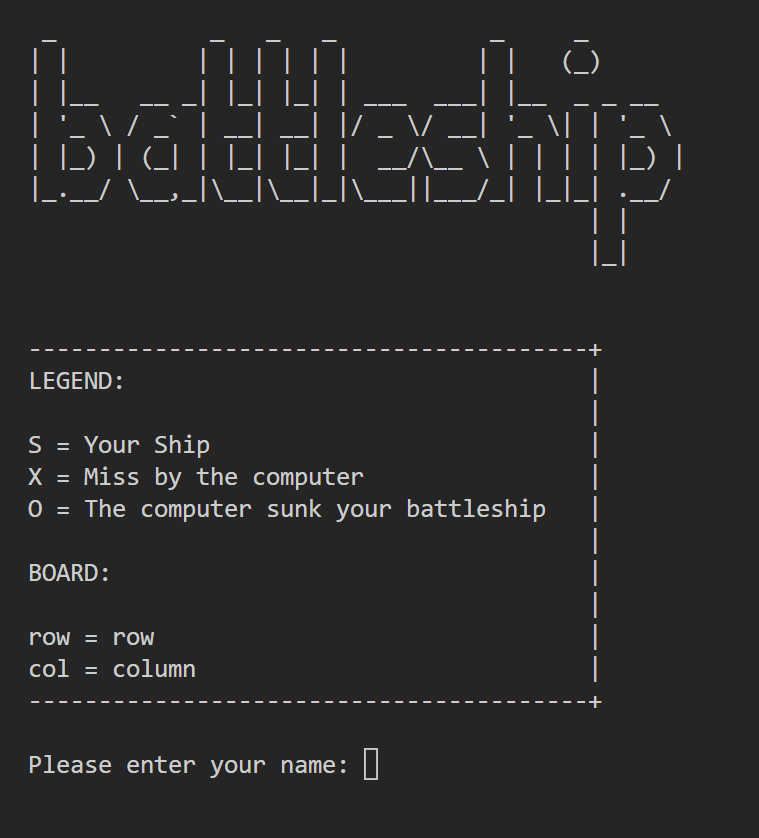
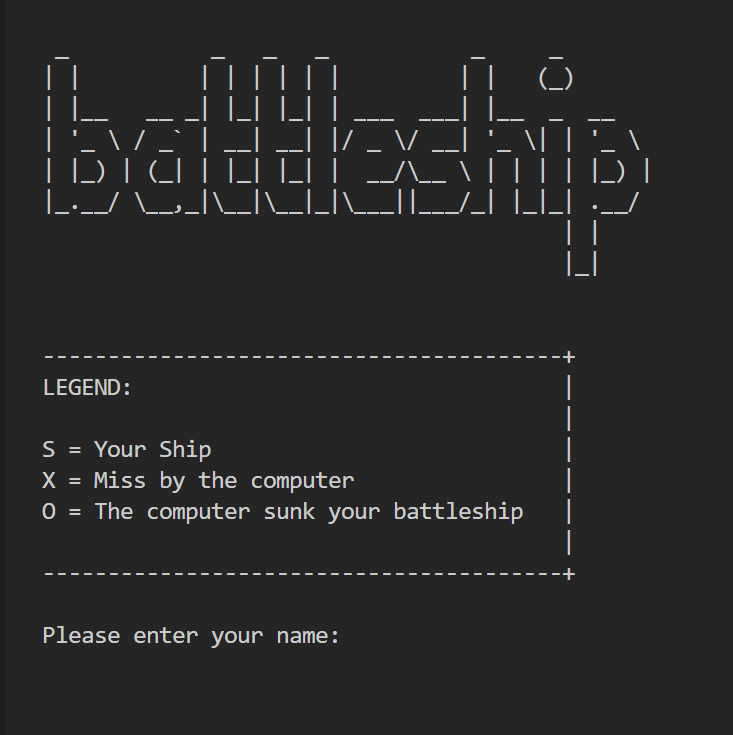
Import time and to the play_game function to improve user experience

diff --git a/run.py b/run.py
@@ -1,7 +1,8 @@
 """
-Importing random & colored from termcolor
+Importing random, time & colored from termcolor
 """
 import random
+import time
 from termcolor import colored
 
 # Game setup
@@ -26,10 +27,6 @@ S = Your Ship                           |
 X = Miss by the computer                |
 O = The computer sunk your battleship   |
                                         |
-BOARD:                                  |
-                                        |
-row = row                               |
-col = column                            |
 ----------------------------------------+
 """
 
@@ -51,6 +48,10 @@ def display_header():
     print(LEGEND)
 
 
+import random
+
+GAME_AREA = 5
+
 def game_setup(user_board, pc_board, user_name):
     """
     function asks user to place 3 ships on the board.
@@ -58,11 +59,18 @@ def game_setup(user_board, pc_board, user_name):
     The function checks if the user has entered a valid location for
     their ships. If the user has entered an invalid location they are
     asked to re-enter the location.
+
+    Returns:
+    A list of tuples containing the row and column coordinates of
+    each ship on the computer's board.
     """
+    print("\n")
     print(colored(f'{user_name}, Welcome to Battleship!', 'green'))
     print(colored('Begin by placing 3 battleships on the board.', 'green'))
     print(colored('The board is 5 x 5.', 'green'))
     print(colored('Please enter 0 - 4 for your selections.', 'green'))
+    print("\n")
+    
     for i in range(3):
         display_board(user_board)
         permitted_location = False
@@ -82,6 +90,13 @@ def game_setup(user_board, pc_board, user_name):
             except ValueError:
                 print("Input is not valid. Please enter a whole number.")
 
+    time.sleep(1)
+
+    # Clear the screen, display the header, and show the current game board
+    clear_screen()
+    display_header()
+    display_board(user_board)
+
     # PC's ships are created and placed in random locations on the board.
     print("The computer is randomly selecting locations.\n")
 
@@ -90,21 +105,24 @@ def game_setup(user_board, pc_board, user_name):
                            for c in range(GAME_AREA)
                            if user_board[r][c] == 'S']
 
+    # Place computer's ships randomly
+    pc_ship_locations = []
     for i in range(3):
         permitted_location = False
         while not permitted_location:
             row = random.randint(0, GAME_AREA-1)
             col = random.randint(0, GAME_AREA-1)
-            if pc_board[row][col] == ' ' and (row, col)\
-                    not in user_ship_locations:
+            if pc_board[row][col] == ' ' and (row, col) not in user_ship_locations:
                 pc_board[row][col] = 'S'
+                pc_ship_locations.append((row, col))
                 permitted_location = True
 
-    # Marking the computer's ships on the board
-    for row in range(GAME_AREA):
-        for col in range(GAME_AREA):
-            if pc_board[row][col] == 'S':
-                user_board[row][col] = '?'
+    # Mark computer's ships on the user's board
+    for row, col in pc_ship_locations:
+        user_board[row][col] = '?'
+
+    return pc_ship_locations
+
 
 
 def display_board(area):
@@ -135,7 +153,7 @@ def eliminate_target(area, row, col):
         return False
 
 
-def game_loop(user_board, pc_board, user_name):
+def game_loop(user_board, pc_board, user_name, pc_ship_locations):
     """
     This function is the game loop.
     It asks the user to pick a location on the board
@@ -151,6 +169,9 @@ def game_loop(user_board, pc_board, user_name):
     has a ship, the function will randomly select a new location for the ship.
     """
     while True:
+        # Clear the screen before displaying the updated boards
+        clear_screen()
+        display_header()
         # Player's turn
         print(colored(f"{user_name}, take your shot.\n", "blue"))
         display_board(user_board)
@@ -163,8 +184,8 @@ def game_loop(user_board, pc_board, user_name):
                 if pick_row < GAME_AREA and pick_col < GAME_AREA:
                     if user_board[pick_row][pick_col] == 'X' or\
                          user_board[pick_row][pick_col] == 'O':
-                        print("You've picked that location already."
-                              "Try another!")
+                        print("There are no ships in squares marked X,"
+                              "try again!")
                     else:
                         guess_is_good = True
                         eliminate_target(pc_board, pick_row, pick_col)
@@ -176,23 +197,35 @@ def game_loop(user_board, pc_board, user_name):
 
         # If the user wins
         if all('S' not in row for row in pc_board):
+            clear_screen()
+            display_board(user_board)
             print(colored(f'{user_name}, YOU WIN!', 'green'))
             break
 
         # the PC's turn to shoot
-        print("The computer is taking it's shot...")
+        print("\n")
+        print("The computer is taking its shot...")
+        print("\n")
         pc_pick_row = random.randint(0, GAME_AREA-1)
         pc_pick_col = random.randint(0, GAME_AREA-1)
-        while user_board[pc_pick_row][pc_pick_col] == 'X' \
-                or user_board[pc_pick_row][pc_pick_col] == 'O':
+
+        while (pc_pick_row, pc_pick_col) in pc_ship_locations or\
+                user_board[pc_pick_row][pc_pick_col] == 'X' or\
+                user_board[pc_pick_row][pc_pick_col] == 'O':
             pc_pick_row = random.randint(0, GAME_AREA-1)
             pc_pick_col = random.randint(0, GAME_AREA-1)
+
         eliminate_target(user_board, pc_pick_row, pc_pick_col)
 
         # If the PC wins
         if all('S' not in row for row in user_board):
+            clear_screen()
+            display_board(user_board)
             print(colored('COMPUTER WINS!, ALL YOUR SHIPS ARE SUNK', 'red'))
             break
+
+        # Add a small delay before updating the board display
+        time.sleep(2)
 
 
 def play_game():
@@ -217,8 +250,8 @@ def play_game():
                 print("Name cannot be blank. Please try again.")
 
         # Start game
-        game_setup(user_board, pc_board, user_name)
-        game_loop(user_board, pc_board, user_name)
+        pc_ship_locations = game_setup(user_board, pc_board, user_name)
+        game_loop(user_board, pc_board, user_name, pc_ship_locations)
 
         # Prompt user to play again
         play_again = input("Would you like to play again? (y/n) ").lower()
@@ -228,8 +261,13 @@ def play_game():
 
         # Exit loop if user doesn't want to play again
         if play_again == 'n':
+            clear_screen()
             print("Thanks for playing!")
             break
+
+        # Clear screen and display header if the user wants to play again
+        elif play_again == 'y':
+            display_header()
 
 
 play_game()

diff --git a/README.md b/README.md
@@ -5,6 +5,8 @@ This is a Battleship game written in python, the game runs in the terminal. You 
 
 The user attempts to defeat the computer by sinking it's battleships and in turn, the computer attempts to sink the users's ships. In this version of the game, the user and the computer share the same board. To begin with, the user is asked to input their name and then, to place three ships on the board.
 
+The computer marks the board with an 'X' if it misses a shot. The game is coded to ensure that the computer does not shoot at or mark locations already containing a computer ship. Therefor the user can be confident that squares marked 'X' do not contain ships. If the user selects a square marked 'X', they are given another try.
+
 You can read more about the game origin and other facts here [Battleship Wikipedia](https://en.wikipedia.org/wiki/Battleship_(game))
 
 [The live version of the project can be seen here](https://ci-battleship-pp3.herokuapp.com/)
@@ -65,7 +67,7 @@ You can read more about the game origin and other facts here [Battleship Wikiped
 - Have a scoreboard displayed to track and show the current score.
 - Allow the user to select board size and number of ships.
 - Create ships that take up more spaces on the board, currently they are 1x1.
-- Allow the user to select the difficulty level, fix computer ship locations rather than have them change places per turn.
+- Allow the user to select the difficulty level.
 
 ## Data Model
 
@@ -83,6 +85,16 @@ I have performed manual testing on this project:
 - I purposely entered invalid inputs to ensure data validation was working.
 - Tested the project in my local terminal as well as the Code Institute Heroku terminal.
 - I tested the CI Terminal in Chrome, FireFox, Edge & Safari browsers, the app runs well in all without any noticable differences.
+
+During testing I added code to the `game_setup()` function which marked the computer ships on the board.
+
+    Marking the computer's ships on the board
+    `for row in range(GAME_AREA):
+        for col in range(GAME_AREA):
+            if pc_board[row][col] == 'S':
+                user_board[row][col] = '?'`
+
+This code has been removed from the deployed project.
 
 ## Bugs
 
